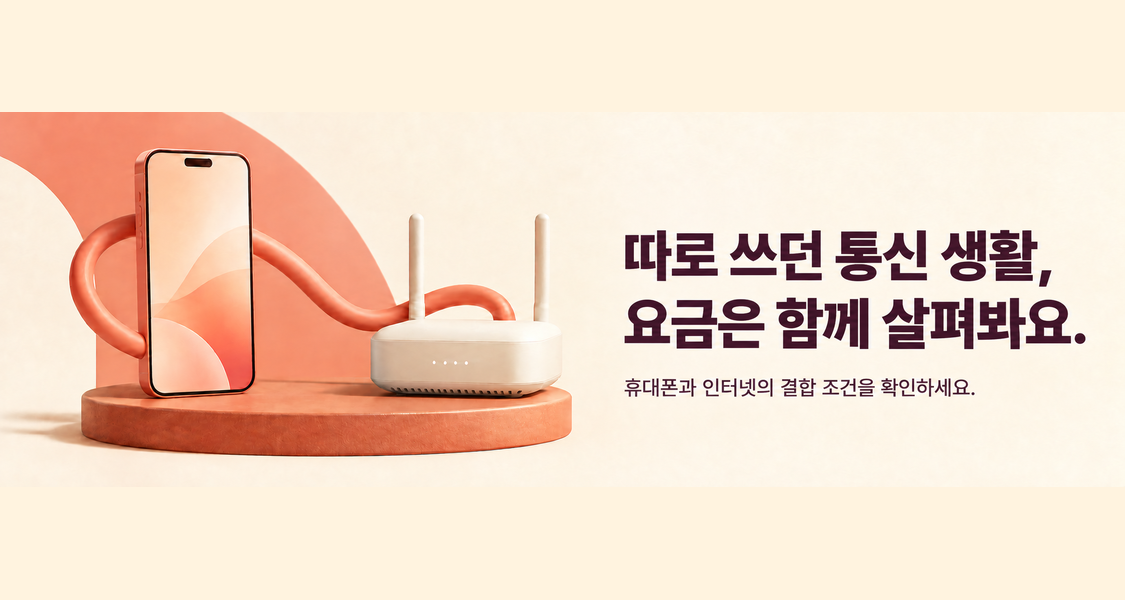
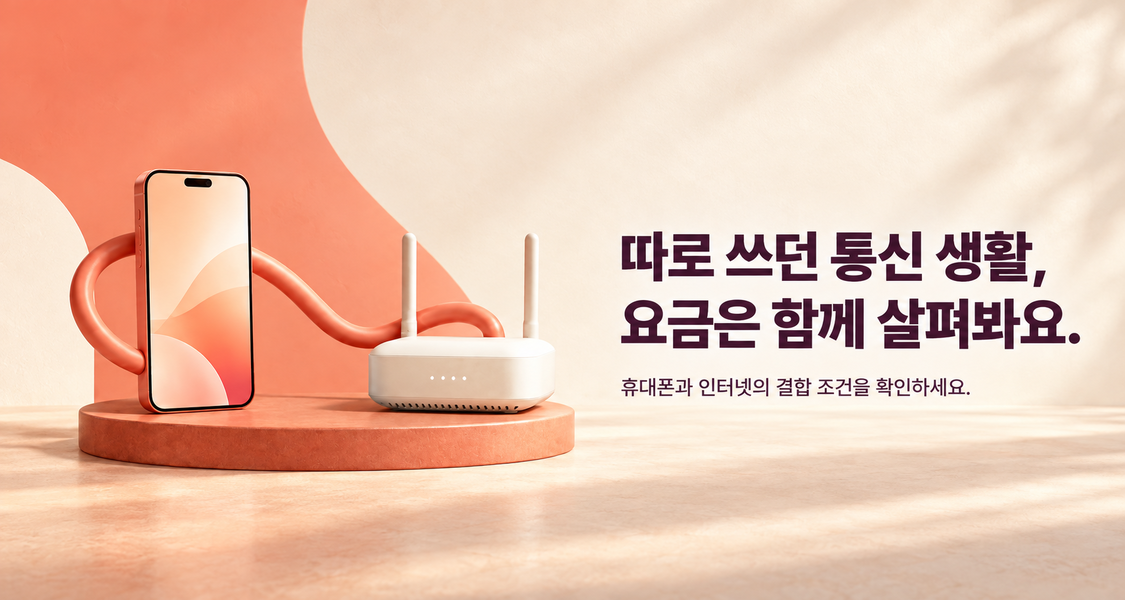
모바일 배너 이미지 재교체(1125×600)

diff --git a/index.html b/index.html
@@ -66,19 +66,19 @@
       <!-- 배너 이미지: images/hero-N.webp (PC 2880×976, 약 3:1) · hero-N-m.webp (모바일 1125×450). 같은 파일명으로 덮어쓰면 교체됨 -->
       <a class="hs__slide hs__slide--img" href="#matrix">
         <picture>
-          <source media="(max-width:768px)" srcset="images/banner-1-m.webp?v=20261021b">
+          <source media="(max-width:768px)" srcset="images/banner-1-m.webp?v=20261022a">
           <img src="images/banner-1.webp?v=20261021c" width="3072" height="724" alt="라이프스타일에 맞춘 속도 추천 배너">
         </picture>
       </a>
       <button type="button" class="hs__slide hs__slide--img" data-open-apply>
         <picture>
-          <source media="(max-width:768px)" srcset="images/banner-2-m.webp?v=20261021b">
+          <source media="(max-width:768px)" srcset="images/banner-2-m.webp?v=20261022a">
           <img src="images/banner-2.webp?v=20261021c" width="3072" height="724" alt="인터넷·TV·휴대폰 결합 혜택 배너">
         </picture>
       </button>
       <a class="hs__slide hs__slide--img" href="pages/review.html">
         <picture>
-          <source media="(max-width:768px)" srcset="images/banner-3-m.webp?v=20261021b">
+          <source media="(max-width:768px)" srcset="images/banner-3-m.webp?v=20261022a">
           <img src="images/banner-3.webp?v=20261021c" width="3072" height="724" alt="통신사 혜택 비교 배너">
         </picture>
       </a>

diff --git a/internet.html b/internet.html
@@ -66,19 +66,19 @@
       <!-- 배너 이미지: images/hero-N.webp (PC 2880×976, 약 3:1) · hero-N-m.webp (모바일 1125×450). 같은 파일명으로 덮어쓰면 교체됨 -->
       <a class="hs__slide hs__slide--img" href="#matrix">
         <picture>
-          <source media="(max-width:768px)" srcset="images/banner-1-m.webp?v=20261021b">
+          <source media="(max-width:768px)" srcset="images/banner-1-m.webp?v=20261022a">
           <img src="images/banner-1.webp?v=20261021c" width="3072" height="724" alt="라이프스타일에 맞춘 속도 추천 배너">
         </picture>
       </a>
       <button type="button" class="hs__slide hs__slide--img" data-open-apply>
         <picture>
-          <source media="(max-width:768px)" srcset="images/banner-2-m.webp?v=20261021b">
+          <source media="(max-width:768px)" srcset="images/banner-2-m.webp?v=20261022a">
           <img src="images/banner-2.webp?v=20261021c" width="3072" height="724" alt="인터넷·TV·휴대폰 결합 혜택 배너">
         </picture>
       </button>
       <a class="hs__slide hs__slide--img" href="pages/review.html">
         <picture>
-          <source media="(max-width:768px)" srcset="images/banner-3-m.webp?v=20261021b">
+          <source media="(max-width:768px)" srcset="images/banner-3-m.webp?v=20261022a">
           <img src="images/banner-3.webp?v=20261021c" width="3072" height="724" alt="통신사 혜택 비교 배너">
         </picture>
       </a>
